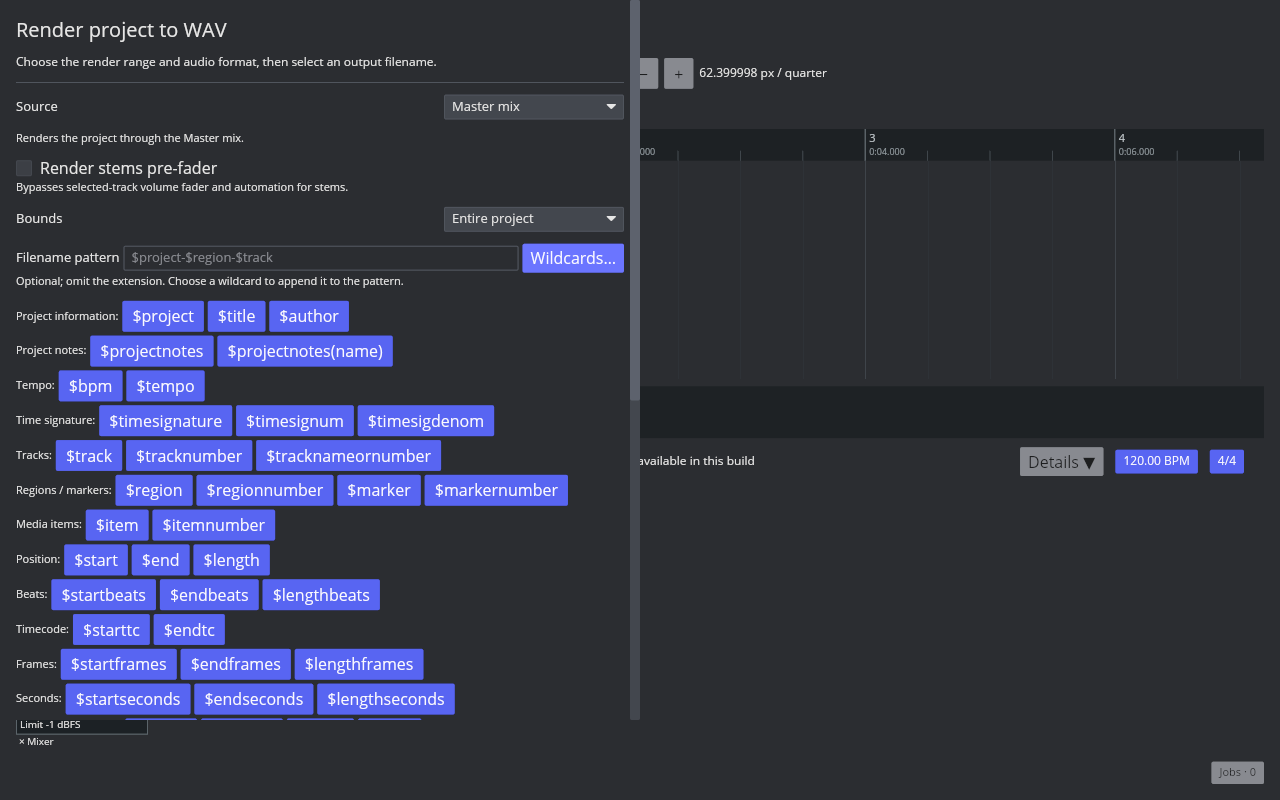
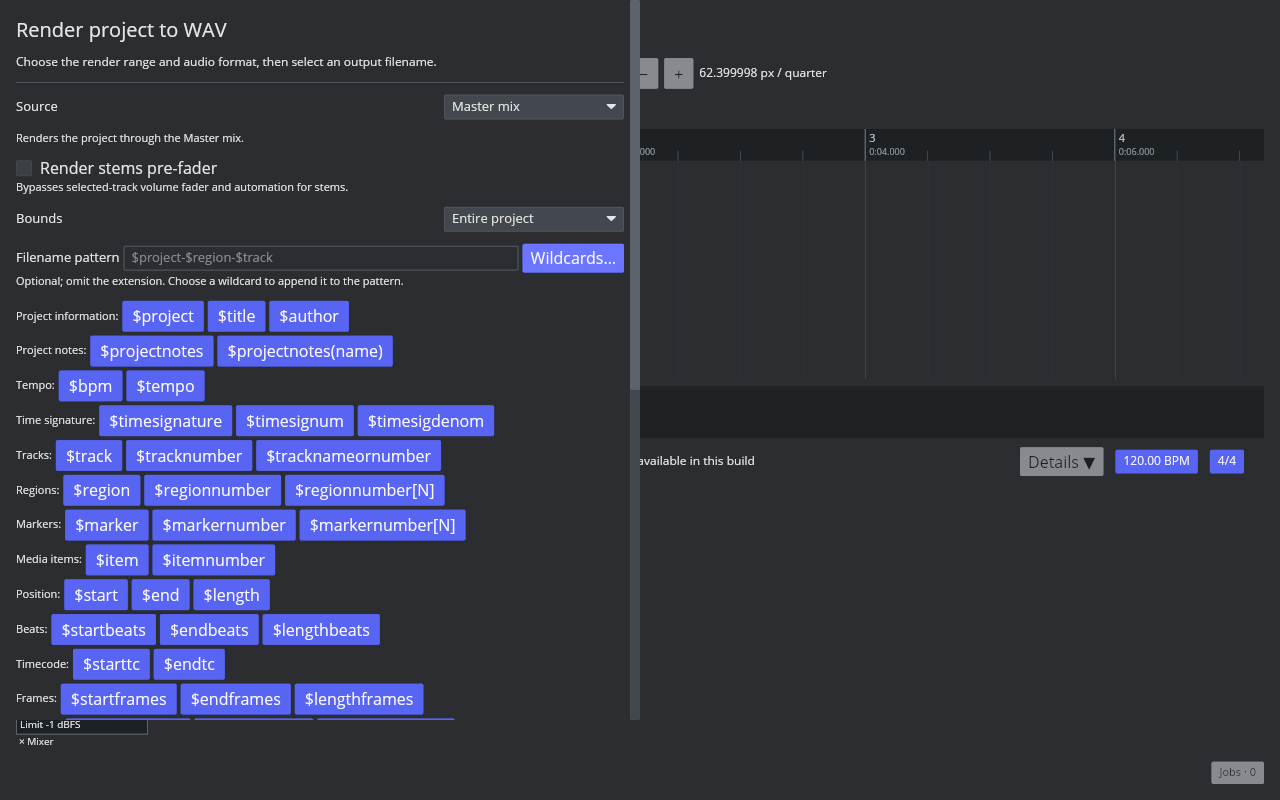
feat(render): support numbered region and marker wildcards

Changed region(s): [[0.0, 0.5938, 0.4688, 0.9062]]

diff --git a/crates/aaadaw/src/app/audio_export.rs b/crates/aaadaw/src/app/audio_export.rs
@@ -54,8 +54,10 @@ pub(crate) enum RenderFilenameWildcard {
     TimeSigDenom,
     Region,
     RegionNumber,
+    RegionNumberNumbered,
     Marker,
     MarkerNumber,
+    MarkerNumberNumbered,
     Track,
     TrackNumber,
     TrackNameOrNumber,
@@ -88,7 +90,7 @@ pub(crate) enum RenderFilenameWildcard {
 }
 
 impl RenderFilenameWildcard {
-    pub(crate) const ALL: [Self; 42] = [
+    pub(crate) const ALL: [Self; 44] = [
         Self::Project,
         Self::Title,
         Self::Author,
@@ -104,8 +106,10 @@ impl RenderFilenameWildcard {
         Self::TrackNameOrNumber,
         Self::Region,
         Self::RegionNumber,
+        Self::RegionNumberNumbered,
         Self::Marker,
         Self::MarkerNumber,
+        Self::MarkerNumberNumbered,
         Self::Item,
         Self::ItemNumber,
         Self::Start,
@@ -146,8 +150,10 @@ impl RenderFilenameWildcard {
             Self::TimeSigDenom => "$timesigdenom",
             Self::Region => "$region",
             Self::RegionNumber => "$regionnumber",
+            Self::RegionNumberNumbered => "$regionnumber[N]",
             Self::Marker => "$marker",
             Self::MarkerNumber => "$markernumber",
+            Self::MarkerNumberNumbered => "$markernumber[N]",
             Self::Track => "$track",
             Self::TrackNumber => "$tracknumber",
             Self::TrackNameOrNumber => "$tracknameornumber",
@@ -901,11 +907,16 @@ enum RenderFilenameWildcardModifier {
     },
     RemoveCharacter(char),
     Truncate(usize),
+    Numbered {
+        start: u64,
+        width: usize,
+    },
 }
 
 fn parse_render_filename_wildcard_modifiers(
     characters: &[char],
     start: usize,
+    token: &str,
 ) -> (usize, Vec<RenderFilenameWildcardModifier>) {
     let mut index = start;
     let mut modifiers = Vec::new();
@@ -942,17 +953,26 @@ fn parse_render_filename_wildcard_modifiers(
                 };
                 let end = index + 1 + relative_end;
                 let suffix = &characters[index + 1..end];
-                let Some(digits) = suffix.strip_prefix(&['<']) else {
-                    // [N] is a render-order counter whose scope depends on the
-                    // selected source. Leave it literal until that context is
-                    // modeled rather than treating it as string padding.
+                if let Some(digits) = suffix.strip_prefix(&['<']) {
+                    let digits = digits.iter().collect::<String>();
+                    let Ok(limit) = digits.parse::<usize>() else {
+                        break;
+                    };
+                    modifiers.push(RenderFilenameWildcardModifier::Truncate(limit));
+                } else if matches!(token, "regionnumber" | "markernumber")
+                    && suffix.iter().all(char::is_ascii_digit)
+                {
+                    let width = suffix.len();
+                    let digits = suffix.iter().collect::<String>();
+                    let Ok(start) = digits.parse::<u64>() else {
+                        break;
+                    };
+                    modifiers.push(RenderFilenameWildcardModifier::Numbered { start, width });
+                } else {
+                    // Other [N] forms use render-order contexts which are not
+                    // modeled by the current single-source filename resolver.
                     break;
-                };
-                let digits = digits.iter().collect::<String>();
-                let Ok(limit) = digits.parse::<usize>() else {
-                    break;
-                };
-                modifiers.push(RenderFilenameWildcardModifier::Truncate(limit));
+                }
                 index = end + 1;
             }
             _ => break,
@@ -1013,6 +1033,11 @@ fn apply_render_filename_wildcard_modifiers(
                 value.chars().filter(|value| *value != *character).collect()
             }
             RenderFilenameWildcardModifier::Truncate(limit) => value.chars().take(*limit).collect(),
+            RenderFilenameWildcardModifier::Numbered { start, width } => value
+                .parse::<u64>()
+                .map(|number| start.saturating_add(number.saturating_sub(1)))
+                .map(|number| format!("{number:0width$}"))
+                .unwrap_or(value),
         };
     }
     value
@@ -1198,7 +1223,7 @@ fn expand_render_filename_pattern(
                 (token_end, None)
             };
         let (wildcard_end, modifiers) = if known_token {
-            parse_render_filename_wildcard_modifiers(&characters, expression_end)
+            parse_render_filename_wildcard_modifiers(&characters, expression_end, &token)
         } else {
             (expression_end, Vec::new())
         };
@@ -3025,8 +3050,10 @@ mod tests {
                 "$tracknameornumber",
                 "$region",
                 "$regionnumber",
+                "$regionnumber[N]",
                 "$marker",
                 "$markernumber",
+                "$markernumber[N]",
                 "$item",
                 "$itemnumber",
                 "$start",
@@ -3080,6 +3107,61 @@ mod tests {
             app.render_dialog.filename_pattern,
             "$project-$track$project$projectnotes(name)"
         );
+    }
+
+    #[test]
+    fn render_filename_region_and_marker_numbers_match_native_start_number_rules() {
+        let mut project = Project::default();
+        for (start_ticks, end_ticks, name) in [(0, 1_920, "First"), (1_920, 3_840, "Second")] {
+            project
+                .apply(DawAction::InsertProjectRegion {
+                    start_ticks,
+                    end_ticks,
+                    name: name.to_owned(),
+                })
+                .expect("numbered region should be inserted");
+        }
+        for (position_ticks, name) in [(0, "First"), (1_920, "Second"), (3_840, "End")] {
+            project
+                .apply(DawAction::InsertProjectMarker {
+                    position_ticks,
+                    name: name.to_owned(),
+                })
+                .expect("numbered marker should be inserted");
+        }
+        let settings = aaadaw_app::ProjectWavRenderSettings {
+            master_ceiling: aaadaw_engine::MasterOutputCeiling::default(),
+            export_options: aaadaw_app::WavExportOptions::default(),
+            output_sample_rate: 48_000,
+            output_channels: WavChannelCount::Stereo,
+            source: aaadaw_app::ProjectWavRenderSource::MasterMix,
+            start_sample: project
+                .sample_at_tick(1_920)
+                .expect("start tick should convert"),
+            end_sample: project
+                .sample_at_tick(3_840)
+                .expect("end tick should convert"),
+            tail_milliseconds: 0,
+            normalize_peak: false,
+            normalize_peak_target_centi_dbfs: 0,
+        };
+        let output = apply_render_filename_pattern(
+            vec![(settings, Path::new("/renders/base.wav").to_owned())],
+            "$regionnumber[001]-$markernumber[005]",
+            &project,
+            Path::new("/projects/numbered.aaadaw"),
+        )
+        .expect("region and marker start-number modifiers should expand");
+        assert_eq!(output[0].1, Path::new("/renders/002-006.wav"));
+
+        let output = apply_render_filename_pattern(
+            vec![(settings, Path::new("/renders/base.wav").to_owned())],
+            "$regionnumber[01]-$markernumber[01]",
+            &project,
+            Path::new("/projects/numbered.aaadaw"),
+        )
+        .expect("two-digit number modifiers should retain their requested width");
+        assert_eq!(output[0].1, Path::new("/renders/02-02.wav"));
     }
 
     #[test]

diff --git a/crates/aaadaw/src/app/view/render.rs b/crates/aaadaw/src/app/view/render.rs
@@ -224,44 +224,48 @@ pub(super) fn view(app: &App) -> Element<'_, Message> {
                     RenderFilenameWildcard::ALL.into_iter().skip(10).take(3),
                 ),
                 wildcard_group_row(
-                    "Regions / markers:",
-                    RenderFilenameWildcard::ALL.into_iter().skip(13).take(4),
+                    "Regions:",
+                    RenderFilenameWildcard::ALL.into_iter().skip(13).take(3),
+                ),
+                wildcard_group_row(
+                    "Markers:",
+                    RenderFilenameWildcard::ALL.into_iter().skip(16).take(3),
                 ),
                 wildcard_group_row(
                     "Media items:",
-                    RenderFilenameWildcard::ALL.into_iter().skip(17).take(2),
+                    RenderFilenameWildcard::ALL.into_iter().skip(19).take(2),
                 ),
                 wildcard_group_row(
                     "Position:",
-                    RenderFilenameWildcard::ALL.into_iter().skip(19).take(3),
+                    RenderFilenameWildcard::ALL.into_iter().skip(21).take(3),
                 ),
                 wildcard_group_row(
                     "Beats:",
-                    RenderFilenameWildcard::ALL.into_iter().skip(22).take(3),
+                    RenderFilenameWildcard::ALL.into_iter().skip(24).take(3),
                 ),
                 wildcard_group_row(
                     "Timecode:",
-                    RenderFilenameWildcard::ALL.into_iter().skip(25).take(2),
+                    RenderFilenameWildcard::ALL.into_iter().skip(27).take(2),
                 ),
                 wildcard_group_row(
                     "Frames:",
-                    RenderFilenameWildcard::ALL.into_iter().skip(27).take(3),
+                    RenderFilenameWildcard::ALL.into_iter().skip(29).take(3),
                 ),
                 wildcard_group_row(
                     "Seconds:",
-                    RenderFilenameWildcard::ALL.into_iter().skip(30).take(3),
+                    RenderFilenameWildcard::ALL.into_iter().skip(32).take(3),
                 ),
                 wildcard_group_row(
                     "Length components:",
-                    RenderFilenameWildcard::ALL.into_iter().skip(33).take(4),
+                    RenderFilenameWildcard::ALL.into_iter().skip(35).take(4),
                 ),
                 wildcard_group_row(
                     "Output format:",
-                    RenderFilenameWildcard::ALL.into_iter().skip(37).take(4),
+                    RenderFilenameWildcard::ALL.into_iter().skip(39).take(4),
                 ),
                 wildcard_group_row(
                     "Channels:",
-                    RenderFilenameWildcard::ALL.into_iter().skip(41).take(1),
+                    RenderFilenameWildcard::ALL.into_iter().skip(43).take(1),
                 ),
             ]
             .spacing(tokens::SPACING_XS)

diff --git a/docs/verification/reaper-parity/render-filename-patterns.md b/docs/verification/reaper-parity/render-filename-patterns.md
@@ -2,12 +2,12 @@
 
 Linux REAPER 7.82 / Default 7 places a `File name` pattern field and `Wildcards` button in the Render window. The captured selected-item case uses `$region-$item` and resolves to `bounds-ui-Region 2-item_02.wav`; the reference dialog and measured output are archived in [the native screenshot](images/render-selected-items-native.png) and [the output record](render-selected-items-native.tsv). The native Region Render Matrix fixture uses `$region-$track` and emits `Intro-Master.wav`, `Intro-Drums.wav`, `Intro-Guitar.wav`, and `Verse-Bass.wav`.
 
-AAADAW now provides an optional filename-pattern field in its Render window and a grouped `Wildcards…` picker immediately below it. Its 42 implemented tokens cover `$project`, `$title`, `$author`, `$projectnotes`, `$projectnotes(name)`, `$bpm`, `$tempo`, `$timesignature`, `$timesignum`, `$timesigdenom`, `$track`, `$tracknumber`, `$tracknameornumber`, `$region`, `$regionnumber`, `$marker`, `$markernumber`, `$item`, `$itemnumber`, the 18 Position/Length tokens `$start`, `$end`, `$length`, `$startbeats`, `$endbeats`, `$lengthbeats`, `$starttc`, `$endtc`, `$startframes`, `$endframes`, `$lengthframes`, `$startseconds`, `$endseconds`, `$lengthseconds`, `$lenhh`, `$lenmm`, `$lenss`, and `$lentt`, plus `$format`, `$samplerate`, `$sampleratek`, `$bitdepth`, and `$channels`. Project metadata values come from the existing Project Notes model; `$projectnotes(name)` reads the value of an exact `name=value` line, following the native help example. Selecting a token appends it to the end of the pattern and closes the picker. A chosen output path supplies the directory and extension; a blank pattern retains the existing generated names. The resolver sanitizes characters unsafe in file names and rejects patterns that resolve multiple jobs to the same name before queueing. The Render job still publishes through the existing atomic batch writer.
+AAADAW now provides an optional filename-pattern field in its Render window and a grouped `Wildcards…` picker immediately below it. Its 44 implemented tokens cover `$project`, `$title`, `$author`, `$projectnotes`, `$projectnotes(name)`, `$bpm`, `$tempo`, `$timesignature`, `$timesignum`, `$timesigdenom`, `$track`, `$tracknumber`, `$tracknameornumber`, `$region`, `$regionnumber`, `$regionnumber[N]`, `$marker`, `$markernumber`, `$markernumber[N]`, `$item`, `$itemnumber`, the 18 Position/Length tokens `$start`, `$end`, `$length`, `$startbeats`, `$endbeats`, `$lengthbeats`, `$starttc`, `$endtc`, `$startframes`, `$endframes`, `$lengthframes`, `$startseconds`, `$endseconds`, `$lengthseconds`, `$lenhh`, `$lenmm`, `$lenss`, and `$lentt`, plus `$format`, `$samplerate`, `$sampleratek`, `$bitdepth`, and `$channels`. Project metadata values come from the existing Project Notes model; `$projectnotes(name)` reads the value of an exact `name=value` line, following the native help example. For `$regionnumber[N]` and `$markernumber[N]`, the numeric suffix sets the first output number and later object ordinals increment it while preserving digit width. Selecting a token appends it to the end of the pattern and closes the picker. A chosen output path supplies the directory and extension; a blank pattern retains the existing generated names. The resolver sanitizes characters unsafe in file names and rejects patterns that resolve multiple jobs to the same name before queueing. The Render job still publishes through the existing atomic batch writer.
 
-The [AAADAW filename-field capture](fixtures/render-filename-pattern-aaadaw.png), [expanded picker capture](fixtures/render-filename-pattern-wildcards-aaadaw.png), [scrolled picker capture](fixtures/render-filename-pattern-wildcards-scrolled-aaadaw.png), [project-note insertion capture](fixtures/render-filename-pattern-wildcard-insert-aaadaw.png), [item-number insertion capture](fixtures/render-filename-pattern-wildcard-itemnumber-aaadaw.png), and [sample-rate insertion capture](fixtures/render-filename-pattern-wildcard-sampleratek-aaadaw.png) were taken from the rebuilt desktop binary. The reproducible [capture script](../../../scripts/reaper_parity/capture-render-filename-pattern-aaadaw.sh) drives the visible Render command with Ctrl+Alt+R; set `AAADAW_OPEN_WILDCARDS=1` to capture the expanded picker, or `AAADAW_INSERT_WILDCARD=projectnotesnamed`, `itemnumber`, or `sampleratek` to click those tokens and capture the resulting field. The current desktop captures confirm that `$projectnotes(name)`, `$itemnumber`, and `$sampleratek` insert and close the picker. Native UI probes accept `AAADAW_REAPER_WILDCARD_PATTERN` to replace their default pattern. The selected-item probe also accepts project title, author, notes, track name, item start, and item length overrides. Native captures verify `$tracknumber-$tracknameornumber-$regionnumber-$tempo-$timesignature-$timesignum-$timesigdenom` as `01-Render fixture-02-120-4-4-4-4.wav`, `$markernumber` as `01.wav`, `$title-$author-$projectnotes` as `Wildcard Session-Render Author-Mix notes.wav`, and an empty track name with `$tracknameornumber` as `Track 01.wav`. At 30 fps and 4/4, a selected item from 2.125 to 3.359 seconds resolves `$start-$end-$length` to `0-02.125-0-03.359-0-01.234`, `$startbeats-$endbeats-$lengthbeats` to `2.1.25-2.3.72-0.2.47`, `$starttc-$endtc` to `00.00.02.03-00.00.03.10`, `$startseconds-$endseconds-$lengthseconds-$startframes-$endframes-$lengthframes` to `2.125-3.359-1.234-63-100-37`, and the length components to `0-0-1-234`. The [native context capture](fixtures/render-wildcards-context-native.png), [marker capture](fixtures/render-wildcards-marker-native.png), [metadata capture](fixtures/render-wildcards-metadata-native.png), [unnamed-track capture](fixtures/render-wildcards-unnamed-track-native.png), and the [clock](fixtures/render-wildcards-clock-native.png), [beats](fixtures/render-wildcards-beats-native.png), [timecode](fixtures/render-wildcards-timecode-native.png), [frames](fixtures/render-wildcards-frames-native.png), and [length components](fixtures/render-wildcards-length-native.png) captures preserve those cases. Screenshot hashes, native inputs, implementation tokens, and regression results are in the [fixture manifest](fixtures/render-filename-pattern-aaadaw.tsv).
+The [AAADAW filename-field capture](fixtures/render-filename-pattern-aaadaw.png), [expanded picker capture](fixtures/render-filename-pattern-wildcards-aaadaw.png), [scrolled picker capture](fixtures/render-filename-pattern-wildcards-scrolled-aaadaw.png), [project-note insertion capture](fixtures/render-filename-pattern-wildcard-insert-aaadaw.png), [item-number insertion capture](fixtures/render-filename-pattern-wildcard-itemnumber-aaadaw.png), [sample-rate insertion capture](fixtures/render-filename-pattern-wildcard-sampleratek-aaadaw.png), and [numbered-region insertion capture](fixtures/render-filename-pattern-wildcard-region-number-aaadaw.png) were taken from the rebuilt desktop binary. The reproducible [capture script](../../../scripts/reaper_parity/capture-render-filename-pattern-aaadaw.sh) drives the visible Render command with Ctrl+Alt+R; set `AAADAW_OPEN_WILDCARDS=1` to capture the expanded picker, or `AAADAW_INSERT_WILDCARD=projectnotesnamed`, `itemnumber`, `sampleratek`, or `regionnumberpadded` to click those tokens and capture the resulting field. The current desktop captures confirm that `$projectnotes(name)`, `$itemnumber`, `$sampleratek`, and the `$regionnumber[N]` template insert and close the picker. Native UI probes accept `AAADAW_REAPER_WILDCARD_PATTERN` to replace their default pattern. The selected-item probe also accepts project title, author, notes, track name, item start, and item length overrides. Native captures verify `$tracknumber-$tracknameornumber-$regionnumber-$tempo-$timesignature-$timesignum-$timesigdenom` as `01-Render fixture-02-120-4-4-4-4.wav`, `$markernumber` as `01.wav`, `$title-$author-$projectnotes` as `Wildcard Session-Render Author-Mix notes.wav`, and an empty track name with `$tracknameornumber` as `Track 01.wav`. A direct native probe selected `All project markers` with `$markernumber[005]` and rendered three files named `marker-005.wav`, `marker-006.wav`, and `marker-007.wav`; the native dialog and finished output list are preserved in the [numbered-marker fixture](fixtures/render-wildcards-markernumber-all-markers.tsv). The native wildcard help explicitly defines `$regionnumber[N]` such that the first region ID uses N and the second N+1. At 30 fps and 4/4, a selected item from 2.125 to 3.359 seconds resolves `$start-$end-$length` to `0-02.125-0-03.359-0-01.234`, `$startbeats-$endbeats-$lengthbeats` to `2.1.25-2.3.72-0.2.47`, `$starttc-$endtc` to `00.00.02.03-00.00.03.10`, `$startseconds-$endseconds-$lengthseconds-$startframes-$endframes-$lengthframes` to `2.125-3.359-1.234-63-100-37`, and the length components to `0-0-1-234`. The [native context capture](fixtures/render-wildcards-context-native.png), [marker capture](fixtures/render-wildcards-marker-native.png), [metadata capture](fixtures/render-wildcards-metadata-native.png), [unnamed-track capture](fixtures/render-wildcards-unnamed-track-native.png), and the [clock](fixtures/render-wildcards-clock-native.png), [beats](fixtures/render-wildcards-beats-native.png), [timecode](fixtures/render-wildcards-timecode-native.png), [frames](fixtures/render-wildcards-frames-native.png), and [length components](fixtures/render-wildcards-length-native.png) captures preserve those cases. Screenshot hashes, native inputs, implementation tokens, and regression results are in the [fixture manifest](fixtures/render-filename-pattern-aaadaw.tsv).
 
 Wildcard text expansion now follows the native help for capitalization (`$Track`, `$TRACK`, `$tRACK`), `<X>` removal, `<abcdeX>` replacement, and `[<N]` prefix truncation. When a known wildcard expands to an empty string, one adjacent space, hyphen, underscore, or dot is omitted, following the native help rule. Unit regressions cover those transformations; native help captures are linked in the [catalog](render-wildcard-catalog.md).
 
-The regression resolves the native `$region-$track` matrix pattern to the same four native target names, renders those jobs through AAADAW's offline audio renderer, and compares every PCM24 sample to the matching REAPER output. A second test resolves `$region-$item` to the observed `Intro-item_01.wav` form. The context-expansion regression checks Project Notes title/author/text, all Position/Length values, and track, region, tempo, and time-signature values; `$itemnumber` follows the selected item’s project order and is regression-tested with the captured `$item` `item_02` identity; an unnamed track resolves `$tracknameornumber` to the native `Track 02` form. The native unnamed-track render preview shows `Track 01.wav`. Separate cases cover safe-name conversion, blank-pattern fallback, unknown literal tokens, and duplicate-name rejection. The queue test sets `$project-$track` through the Render message and checks that queued stem paths use the expanded project and track names; it also verifies duplicate names leave the queue unchanged. The picker regression covers all 42 visible tokens, appending the selected token, and closing the menu. The named Project Notes regression resolves `first=john` and `last=doe` to `john-doe`, as shown in the native help, and an absent key resolves empty. The output-context regression checks native values for WAV format, 44.1/22.05 kHz formatting, 16/24/32/64-bit PCM/float and 4/2-bit compressed WAV values, and Mono/Stereo channel counts. See the manifest for current build, screenshot hashes, and validation counts.
+The regression resolves the native `$region-$track` matrix pattern to the same four native target names, renders those jobs through AAADAW's offline audio renderer, and compares every PCM24 sample to the matching REAPER output. A second test resolves `$region-$item` to the observed `Intro-item_01.wav` form. The context-expansion regression checks Project Notes title/author/text, all Position/Length values, and track, region, tempo, and time-signature values; `$itemnumber` follows the selected item’s project order and is regression-tested with the captured `$item` `item_02` identity; numbered region and marker outputs apply the requested initial value and width to the second region/marker, with the marker pattern independently confirmed by native renders `marker-005.wav` through `marker-007.wav`. An unnamed track resolves `$tracknameornumber` to the native `Track 02` form. The native unnamed-track render preview shows `Track 01.wav`. Separate cases cover safe-name conversion, blank-pattern fallback, unknown literal tokens, and duplicate-name rejection. The queue test sets `$project-$track` through the Render message and checks that queued stem paths use the expanded project and track names; it also verifies duplicate names leave the queue unchanged. The picker regression covers all 44 visible tokens, appending the selected token, and closing the menu. The named Project Notes regression resolves `first=john` and `last=doe` to `john-doe`, as shown in the native help, and an absent key resolves empty. The output-context regression checks native values for WAV format, 44.1/22.05 kHz formatting, 16/24/32/64-bit PCM/float and 4/2-bit compressed WAV values, and Mono/Stereo channel counts. See the manifest for current build, screenshot hashes, and validation counts.
 
-The [native wildcard catalog](render-wildcard-catalog.md) records the 97 entries visible in REAPER 7.82 menus and the native Wildcard help rules. This does not complete REAPER Wildcards parity: AAADAW exposes 42 tokens in a flat scrollable grouped picker and appends at the pattern end; insertion at the caret or over a selection, region/marker/item/take-marker named-note parsing, project directory variants, region/marker/item note and name expressions, folders/parent/FX, recording names, date/time/unique IDs, computer/user values, REAPER's full ordering and escaping rules, pattern presets and cross-launch persistence, native collision prompts, non-WAV formats, per-channel `$chid`, and remaining source/range combinations are open. Position/Length formatting is verified with the default 4/4 meter and 30 fps, while project time offset, meter changes across the render range, other frame rates, drop-frame modes, and Tail interactions still need native comparisons. The native context captures verify track number/name, region number, tempo, time signature components, marker number, project title/author/notes, and the sampled time/beat/frame output forms. `$marker` text/name expansion and many source-dependent values still need native comparisons. `RENDER-WILDCARDS-001`, `RENDER-SOURCE-001`, and `UI-028` remain `in_progress`.
+The [native wildcard catalog](render-wildcard-catalog.md) records the 97 entries visible in REAPER 7.82 menus and the native Wildcard help rules. This does not complete REAPER Wildcards parity: AAADAW exposes 44 tokens in a flat scrollable grouped picker and appends at the pattern end; insertion at the caret or over a selection, region/marker/item/take-marker named-note parsing, project directory variants, region/marker/item note and name expressions, folders/parent/FX, recording names, date/time/unique IDs, computer/user values, other `[N]` render-order counters, REAPER's full ordering and escaping rules, pattern presets and cross-launch persistence, native collision prompts, non-WAV formats, per-channel `$chid`, and remaining source/range combinations are open. Position/Length formatting is verified with the default 4/4 meter and 30 fps, while project time offset, meter changes across the render range, other frame rates, drop-frame modes, and Tail interactions still need native comparisons. The native context captures verify track number/name, region number, tempo, time signature components, marker number, project title/author/notes, and the sampled time/beat/frame output forms. `$marker` text/name expansion and many source-dependent values still need native comparisons. `RENDER-WILDCARDS-001`, `RENDER-SOURCE-001`, and `UI-028` remain `in_progress`.

diff --git a/docs/reaper-parity/progress.md b/docs/reaper-parity/progress.md
@@ -20,13 +20,13 @@
 | P1 | 进行中 | [快捷键基础能力](../verification/reaper-parity/keyboard-foundation.md)；Action List Filter 与轨道名焦点的首批原厂键盘行为已核验并纳入回归；Section、完整 Action List、数字键盘/物理键和事务仍待推进 |
 | P2 | 进行中 | Desktop/Touch profile 已分离；Arrange/Mixer/Media Browser 同时显示、独立分割比例及布局持久化；浮动 Docker 等仍待开发 |
 | P3 | 进行中 | 普通轨道输出目标、接收路径 Solo、默认 0 dB 声像与旧工程策略迁移；并行 Post-fader Send/Receive 基础已实现；三种 Tap、嵌套文件夹/Parent Send 与压缩基础已实现；通道/MIDI 等仍待开发 |
-| P4 | 进行中 | Item 手动淡化曲线及工程/DSP 基础；Item Nudge/Set 已覆盖多目标、Duplicate 与 Audio/MIDI Contents；schema 50 signed section-relative audio source offset 已跨 Core/Storage/Media/UI 接入，schema 51 MIDI source loop length 与重复事件已接入 Core/Storage/playback/timeline preview/export；looped MIDI Contents Nudge 与 Snap 开/关、non-loop MIDI Contents Nudge 的 PPQ clamp/source offset remainder/notes/CC/pitch bend 与单步 Undo/Redo、mixed Audio/MIDI selection、stepped-tempo 起点及一个 linear-tempo ramp 案例已有 REAPER 7.82 对照和回归；Linear TempoCurve 已改为按项目时间插值，linear-ramp Set/Contents 与 non-loop edge MIDI event positions/source lengths 现匹配原厂整数 PPQ 值，sub-PPQ source-loop/offset remainder 仍开放；AAADAW MIDI Properties 的 PPQ source-loop length 编辑已接入但原厂控件与缩短规则仍未验证、旧 trimmed source 长度恢复、looped MIDI 的绝对 Set→Contents（Snap off 与整秒 Snap-on）、Audio Set、mixed Audio/looped-MIDI Set 和 non-loop MIDI Set 已按原厂值实现；其他 Target 与更广的 Undo 仍待补；MIDI Item Properties 的 Loop source 开关已实现、实窗对照且可撤销，关闭时保留 MIDI source loop length；MIDI Editor 钢琴卷帘/CC/Pitch Bend 循环实例显示、命中与源事件编辑已有回归和原厂/AAADAW实窗截图；Project Marker 插入/导航/删除/编号动作/可见性/标尺选择拖动/属性窗/基础 Manager，以及 Project Region 数据、可见性、时间选择插入、Manager 属性、基础时间尺显示和 Region Render Matrix 的逐区域 Master/轨道分配（schema 53、撤销/重做）已接入；一组确定性原厂矩阵音频输出已与 AAADAW 全 PCM 样本对齐，filename pattern 仍待实现；LoopPoints 独立状态/链接动作、Action List on/off 状态、40632/40633 Loop 边界导航、Ruler 手势、项目级范围与全局 link 偏好保存恢复已接入；播放中 play cursor、Repeat、Region 原厂交互、tempo/timebase、GUI 边界与自动 Crossfade 待推进 |
+| P4 | 进行中 | Item 手动淡化曲线及工程/DSP 基础；Item Nudge/Set 已覆盖多目标、Duplicate 与 Audio/MIDI Contents；schema 50 signed section-relative audio source offset 已跨 Core/Storage/Media/UI 接入，schema 51 MIDI source loop length 与重复事件已接入 Core/Storage/playback/timeline preview/export；looped MIDI Contents Nudge 与 Snap 开/关、non-loop MIDI Contents Nudge 的 PPQ clamp/source offset remainder/notes/CC/pitch bend 与单步 Undo/Redo、mixed Audio/MIDI selection、stepped-tempo 起点及一个 linear-tempo ramp 案例已有 REAPER 7.82 对照和回归；Linear TempoCurve 已改为按项目时间插值，linear-ramp Set/Contents 与 non-loop edge MIDI event positions/source lengths 现匹配原厂整数 PPQ 值，sub-PPQ source-loop/offset remainder 仍开放；AAADAW MIDI Properties 的 PPQ source-loop length 编辑已接入但原厂控件与缩短规则仍未验证、旧 trimmed source 长度恢复、looped MIDI 的绝对 Set→Contents（Snap off 与整秒 Snap-on）、Audio Set、mixed Audio/looped-MIDI Set 和 non-loop MIDI Set 已按原厂值实现；其他 Target 与更广的 Undo 仍待补；MIDI Item Properties 的 Loop source 开关已实现、实窗对照且可撤销，关闭时保留 MIDI source loop length；MIDI Editor 钢琴卷帘/CC/Pitch Bend 循环实例显示、命中与源事件编辑已有回归和原厂/AAADAW实窗截图；Project Marker 插入/导航/删除/编号动作/可见性/标尺选择拖动/属性窗/基础 Manager，以及 Project Region 数据、可见性、时间选择插入、Manager 属性、基础时间尺显示和 Region Render Matrix 的逐区域 Master/轨道分配（schema 53、撤销/重做）已接入；一组确定性原厂矩阵音频输出已与 AAADAW 全 PCM 样本对齐，基础 filename-pattern 字段、wildcard expansion/picker 和单轨/区域范围输出已实现，完整命名语法与编辑交互仍待覆盖；LoopPoints 独立状态/链接动作、Action List on/off 状态、40632/40633 Loop 边界导航、Ruler 手势、项目级范围与全局 link 偏好保存恢复已接入；播放中 play cursor、Repeat、Region 原厂交互、tempo/timebase、GUI 边界与自动 Crossfade 待推进 |
 | P5 | 未开始 | 高级编辑与 Take/Comp |
 | P6 | 进行中 | 工厂 Play/Stop 与 Play/Pause 已分离；Transport 分段规划已接入 `AudioRenderGraph` callback，in-process MIDI instrument/output 可在 loop 回绕处先释放 sustain/跨界音符再 chase 新起点状态，且 callback 分配探针覆盖该路径；Repeat 按钮/Action R 与 MIDI/受限 PCM feeder 已接入，原厂确认从 Loop 后起播线性前进且 AAADAW 音频回归覆盖；Loop 可达时不匹配的 PCM item 与 isolated instrument helper 仍在消费前拒绝，完整原厂音频等价、Repeat 持久化、完整 Transport 状态及录音/设备行为仍待实现/实测 |
 | P7 | 未开始 | MIDI |
 | P8 | 未开始 | 自动化 |
 | P9 | 未开始 | 插件 |
-| P10 | 进行中 | 工程帧率/时间码、Notes 与 General 起始速度/拍号/采样率/有符号 Start measure/BPM basis/标尺间隔锚点/Project start time 显示偏移/已实现字段的默认工程设置保存；媒体默认已有 64pt playback/192pt render sinc，Render 支持 Entire project/Time selection/Custom time range/All project regions/All project markers、默认关闭且整数毫秒输入的 Tail、Project/常用预设输出采样率转换、Mono/Stereo WAV、PCM8/16/24/32、Float32/64、4-bit IMA ADPCM、2-bit cADPCM 与 8-bit u-Law、可调 sample-peak、Selected tracks (stems)/pre-fader/via master、Master mix and stems，以及 Region Render Matrix 的 All/Selected Regions 批量任务构造、一组 4 文件原厂 PCM24 对照和 42 个常用 Wildcard token（其中 18 个 Position/Length 项及 5 个输出格式/通道值与 REAPER 7.82 实窗输出比对；原厂大小写、字符替换/删除、[<N] 截取和空值分隔符与 named project-note 规则已接入）；$region-$track 原厂文件名与完整 PCM 已一致，完整 Wildcards chooser/规则/跨启动保存及其他路由行为仍待验收；cADPCM 编码尚未逐字节一致、Selected regions/markers、其他 Bounds、多声道、其他归一化/限制后处理和完整原厂对照仍缺 |
+| P10 | 进行中 | 工程帧率/时间码、Notes 与 General 起始速度/拍号/采样率/有符号 Start measure/BPM basis/标尺间隔锚点/Project start time 显示偏移/已实现字段的默认工程设置保存；媒体默认已有 64pt playback/192pt render sinc，Render 支持 Entire project/Time selection/Custom time range/All project regions/All project markers、默认关闭且整数毫秒输入的 Tail、Project/常用预设输出采样率转换、Mono/Stereo WAV、PCM8/16/24/32、Float32/64、4-bit IMA ADPCM、2-bit cADPCM 与 8-bit u-Law、可调 sample-peak、Selected tracks (stems)/pre-fader/via master、Master mix and stems，以及 Region Render Matrix 的 All/Selected Regions 批量任务构造、一组 4 文件原厂 PCM24 对照和 44 个 Wildcard token（其中 18 个 Position/Length 项及 5 个输出格式/通道值与 REAPER 7.82 实窗输出比对；原厂大小写、字符替换/删除、[<N] 截取、空值分隔符、named project-note 与 numbered region/marker 规则已接入）；$region-$track 原厂文件名与完整 PCM 已一致，完整 Wildcards chooser/语法/编辑交互、跨启动保存及其他路由行为仍待验收；cADPCM 编码尚未逐字节一致、Selected regions/markers、其他 Bounds、多声道、其他归一化/限制后处理和完整原厂对照仍缺 |
 | P11 | 未开始 | 其他原厂界面 |
 | P12 | 未开始 | 全量验收 |
 
@@ -1599,3 +1599,9 @@ App nextest 664/664、strict all-target App Clippy `-D warnings`、stripped-debu
 ## 2026-10-16 Named project-note wildcard
 
 实现原厂 Media/Project Information 菜单中的 `$projectnotes(name)`，按原厂 help 的 `name=value` 行精确取值；缺失名称为空，并复用空值相邻分隔符清理。使用原厂帮助页示例 `first=john`、`last=doe` 新增回归，模式 `$projectnotes(first)-$projectnotes(last)-$projectnotes(missing)` 得到 `john-doe`。picker 将 Project notes 拆为普通备注与 named-value 两个按钮，插入坐标脚本同步更新。Picker 扩展到 42 项；App nextest 669/669 与 strict all-target App Clippy `-D warnings` 通过。Build ID `32409702f28800989b39000cedcd7387752a9249` 的 Render、picker、滚动 picker、named-note、itemnumber 和 sampleratek 实点截图已登记；区域/标记/Item/Take marker 命名值及其余原厂 wildcard 仍开放。
+
+### 2026-10-16 Numbered region and marker wildcards
+
+Render Wildcards picker 新增 `$regionnumber[N]` 与 `$markernumber[N]`，总数达到 44。`N` 指定第一个输出编号，后续 Region/Marker 按序递增并保留位宽；第二个对象分别用 `[001]` 得到 `002`、用 `[01]` 得到 `02`。原厂 Wildcard help 第 3 页明确记录 Region 规则，原厂 Regions/Markers 菜单列出两种编号形式；Linux REAPER 7.82 的 All project markers 实际渲染验证 `$markernumber[005]` 生成 `marker-005.wav`、`marker-006.wav`、`marker-007.wav`，对话框与完成列表见[原厂编号 Marker fixture](../verification/reaper-parity/fixtures/render-wildcards-markernumber-all-markers.tsv)。分开 Region 和 Marker picker 行，避免四个控件横向溢出；新的全量/滚动 picker 与 `$regionnumber[N]` 实点插入截图均来自当前桌面构建。
+
[1 lines of base64/hex data omitted]

diff --git a/docs/verification/reaper-parity/render-source.md b/docs/verification/reaper-parity/render-source.md
@@ -20,7 +20,7 @@ AAADAW stores a Master-mix boolean and ordered TrackId list per project region i
 
 The Render Source menu now offers `Region Render Matrix` with All/Selected Project Regions bounds. The existing atomic batch-render queue builds one output for each assigned Master row and one for each assigned track row, and stores per-region ranges in each job. The native Linux REAPER 7.82 render action produced four outputs for this fixture: `Intro-Master.wav`, `Intro-Drums.wav`, `Intro-Guitar.wav`, and `Verse-Bass.wav`; unassigned target/region pairs produced no files. All four files were 48 kHz stereo PCM24 with 96,000 frames. The [source generator](../../../scripts/reaper_parity/generate-region-render-matrix-sources.py), [ReaScript render probe](../../../scripts/reaper_parity/probe-region-render-matrix-render.lua), [native output table](fixtures/region-render-matrix-render-native.tsv), and [PCM fixtures](fixtures/region-render-matrix-render/) preserve the setup, metadata, hashes, and payloads. An AAADAW regression renders the same four target jobs and compares every PCM payload byte-for-byte with the corresponding native fixture; output format, frame count, and sample values also match exactly.
 
-The Render window now has an optional filename-pattern field and a grouped `Wildcards…` picker for 42 implemented tokens: `$project`, `$title`, `$author`, `$projectnotes`, `$projectnotes(name)`, `$bpm`, `$tempo`, `$timesignature`, `$timesignum`, `$timesigdenom`, `$track`, `$tracknumber`, `$tracknameornumber`, `$region`, `$regionnumber`, `$marker`, `$markernumber`, `$item`, `$itemnumber`, the 18 Position/Length tokens, and `$format`, `$samplerate`, `$sampleratek`, `$bitdepth`, and `$channels`. The existing Project Notes title, author, and text fields drive the metadata variables; `$projectnotes(name)` resolves matching `name=value` lines, as documented in the native help. A native selected-item Render probe confirms `$title-$author-$projectnotes` resolves to `Wildcard Session-Render Author-Mix notes.wav`; `$tracknumber-$tracknameornumber-$regionnumber-$tempo-$timesignature-$timesignum-$timesigdenom` resolves to `01-Render fixture-02-120-4-4-4-4.wav`, and the marker probe confirms `$markernumber` resolves to `01.wav`. REAPER's changelog specifies that an unnamed track resolves `$tracknameornumber` to `Track NN`; a fresh native dialog shows an empty track name resolving to `Track 01.wav`, which AAADAW now matches. For a selected item from 2.125 to 3.359 seconds, native Render previews verify clock values `0-02.125`, beat values `2.1.25-2.3.72-0.2.47`, timecode `00.00.02.03-00.00.03.10`, seconds and 30 fps counts `2.125-3.359-1.234-63-100-37`, and length components `0-0-1-234`. The native context, metadata, marker, unnamed-track, Position/Length, Output Format, and Channels screenshots are in the filename wildcard fixture set. The native wildcard menu and help catalog is recorded in [the catalog verification](render-wildcard-catalog.md). For the tested `$region-$track` pattern, AAADAW emits the native names `Intro-Master.wav`, `Intro-Drums.wav`, `Intro-Guitar.wav`, and `Verse-Bass.wav`; its offline renderer still matches all four native PCM payloads byte-for-byte. The native `$region-$item` case resolves to `bounds-ui-Region 2-item_02.wav`; AAADAW resolves `$item` as `item_02` for the second project item and exposes the matching `$itemnumber` value `02`. Blank patterns keep the existing generated output names. Wildcard capitalization, character replacement/removal, prefix truncation, and empty-value separator removal follow the native help and have regression coverage; caret/selection insertion, `[N]` render-order counters, directory creation, lane filters, region/marker/item/take-marker named values, remaining tokens, preset persistence, and more source/range combinations remain open; see [filename wildcard verification](render-filename-patterns.md). The simple fixture confirms the tested track signal and Master sum, but not pre/post-fader settings, automation, folders/sends, or FX routing. Those gaps keep `RENDER-SOURCE-001` and `PROJECT-REGIONS-001` `in_progress`.
+The Render window now has an optional filename-pattern field and a grouped `Wildcards…` picker for 44 implemented tokens: `$project`, `$title`, `$author`, `$projectnotes`, `$projectnotes(name)`, `$bpm`, `$tempo`, `$timesignature`, `$timesignum`, `$timesigdenom`, `$track`, `$tracknumber`, `$tracknameornumber`, `$region`, `$regionnumber`, `$regionnumber[N]`, `$marker`, `$markernumber`, `$markernumber[N]`, `$item`, `$itemnumber`, the 18 Position/Length tokens, and `$format`, `$samplerate`, `$sampleratek`, `$bitdepth`, and `$channels`. The existing Project Notes title, author, and text fields drive the metadata variables; `$projectnotes(name)` resolves matching `name=value` lines, as documented in the native help. Numbered region and marker forms parse N as the initial output number, increment subsequent object ordinals, and retain the supplied digit width; App regression coverage checks the second region and marker. A direct native probe selected `All project markers` with `$markernumber[005]` and rendered `marker-005.wav`, `marker-006.wav`, and `marker-007.wav`, documented in the [native numbered-marker fixture](fixtures/render-wildcards-markernumber-all-markers.tsv). Native help page 3 explicitly documents the `$regionnumber[N]` sequence. A native selected-item Render probe confirms `$title-$author-$projectnotes` resolves to `Wildcard Session-Render Author-Mix notes.wav`; `$tracknumber-$tracknameornumber-$regionnumber-$tempo-$timesignature-$timesignum-$timesigdenom` resolves to `01-Render fixture-02-120-4-4-4-4.wav`, and the marker probe confirms `$markernumber` resolves to `01.wav`. REAPER's changelog specifies that an unnamed track resolves `$tracknameornumber` to `Track NN`; a fresh native dialog shows an empty track name resolving to `Track 01.wav`, which AAADAW now matches. For a selected item from 2.125 to 3.359 seconds, native Render previews verify clock values `0-02.125`, beat values `2.1.25-2.3.72-0.2.47`, timecode `00.00.02.03-00.00.03.10`, seconds and 30 fps counts `2.125-3.359-1.234-63-100-37`, and length components `0-0-1-234`. The native context, metadata, marker, unnamed-track, Position/Length, Output Format, and Channels screenshots are in the filename wildcard fixture set. The native wildcard menu and help catalog is recorded in [the catalog verification](render-wildcard-catalog.md). For the tested `$region-$track` pattern, AAADAW emits the native names `Intro-Master.wav`, `Intro-Drums.wav`, `Intro-Guitar.wav`, and `Verse-Bass.wav`; its offline renderer still matches all four native PCM payloads byte-for-byte. The native `$region-$item` case resolves to `bounds-ui-Region 2-item_02.wav`; AAADAW resolves `$item` as `item_02` for the second project item and exposes the matching `$itemnumber` value `02`. Blank patterns keep the existing generated output names. Wildcard capitalization, character replacement/removal, prefix truncation, numbered region/marker values, and empty-value separator removal follow captured help/menu rules and have regression coverage; caret/selection insertion, other `[N]` render-order counters, directory creation, lane filters, region/marker/item/take-marker named values, remaining tokens, preset persistence, and more source/range combinations remain open; see [filename wildcard verification](render-filename-patterns.md). The simple fixture confirms the tested track signal and Master sum, but not pre/post-fader settings, automation, folders/sends, or FX routing. Those gaps keep `RENDER-SOURCE-001` and `PROJECT-REGIONS-001` `in_progress`.
 
 ### Selected media items
 

diff --git a/docs/verification/reaper-parity/render-wildcard-catalog.md b/docs/verification/reaper-parity/render-wildcard-catalog.md
@@ -33,6 +33,6 @@ The captured Output Format previews confirm `wav-44100-44.1-24-2` for 44.1 kHz /
 
 ## AAADAW status
 
-AAADAW implements 42 tokens: `$project`, `$title`, `$author`, `$projectnotes`, `$projectnotes(name)`, `$bpm`, `$tempo`, `$timesignature`, `$timesignum`, `$timesigdenom`, `$track`, `$tracknumber`, `$tracknameornumber`, `$region`, `$regionnumber`, `$marker`, `$markernumber`, `$item`, `$itemnumber`, the 18 Position/Length entries above, and `$format`, `$samplerate`, `$sampleratek`, `$bitdepth`, and `$channels`. `$bpm` and `$tracknameornumber` are accepted compatibility forms outside the captured native menu labels. The native menu groups items hierarchically; AAADAW currently presents its flat grouped picker in a scrollable panel. Its lower rows and a real `$sampleratek` insertion are shown in the [scrolled AAADAW picker](fixtures/render-filename-pattern-wildcards-scrolled-aaadaw.png), [sample-rate insertion](fixtures/render-filename-pattern-wildcard-sampleratek-aaadaw.png), [named project-note insertion](fixtures/render-filename-pattern-wildcard-insert-aaadaw.png), and [item-number insertion](fixtures/render-filename-pattern-wildcard-itemnumber-aaadaw.png).
+AAADAW implements 44 tokens: `$project`, `$title`, `$author`, `$projectnotes`, `$projectnotes(name)`, `$bpm`, `$tempo`, `$timesignature`, `$timesignum`, `$timesigdenom`, `$track`, `$tracknumber`, `$tracknameornumber`, `$region`, `$regionnumber`, `$regionnumber[N]`, `$marker`, `$markernumber`, `$markernumber[N]`, `$item`, `$itemnumber`, the 18 Position/Length entries above, and `$format`, `$samplerate`, `$sampleratek`, `$bitdepth`, and `$channels`. `$bpm` and `$tracknameornumber` are accepted compatibility forms outside the captured native menu labels. The native menu groups items hierarchically; AAADAW currently presents its flat grouped picker in a scrollable panel. Its lower rows and a real `$sampleratek` insertion are shown in the [scrolled AAADAW picker](fixtures/render-filename-pattern-wildcards-scrolled-aaadaw.png), [sample-rate insertion](fixtures/render-filename-pattern-wildcard-sampleratek-aaadaw.png), [named project-note insertion](fixtures/render-filename-pattern-wildcard-insert-aaadaw.png), [item-number insertion](fixtures/render-filename-pattern-wildcard-itemnumber-aaadaw.png), and [numbered-region insertion](fixtures/render-filename-pattern-wildcard-region-number-aaadaw.png).
 
-AAADAW now applies the help-documented capitalization modes, `<X>` character removal, `<abcdeX>` character replacement, `[<N]` prefix truncation, and removal of one adjacent space, hyphen, underscore, or dot when a resolved value is empty. Regression cases cover the help examples. Project-note named lookup `$projectnotes(name)` is now implemented from the captured help example. The rest of the native catalog and syntax remain open: region/marker/item/take-marker named notes and expressions, directory and folder hierarchy, parent and FX names, marker identity and ordering, item notes and take markers, recording counters, date/time and unique IDs, user/computer values, `[N]` render-order counters, `/` directory creation, `{lane}`, presets, `Master $Track` substitution, non-WAV formats, and per-channel `$chid` need implementation or additional source-specific REAPER comparisons. `RENDER-WILDCARDS-001` remains `in_progress`.
+AAADAW now applies the help-documented capitalization modes, `<X>` character removal, `<abcdeX>` character replacement, `[<N]` prefix truncation, and removal of one adjacent space, hyphen, underscore, or dot when a resolved value is empty. For `$regionnumber[N]` and `$markernumber[N]`, `N` is parsed as a starting number and subsequent region/marker ordinals increment it while preserving the requested digit width; AAADAW regression coverage checks both expressions and the resulting filenames. Native help page 3 explicitly defines the region-number sequence, and the captured Regions/Markers menu lists both numbered forms. A fresh native Render probe set `$markernumber[005]`, selected `All project markers`, and rendered `marker-005.wav`, `marker-006.wav`, and `marker-007.wav`; the dialog and finished-render screenshots plus output hashes are recorded in [the numbered-marker fixture](fixtures/render-wildcards-markernumber-all-markers.tsv). Project-note named lookup `$projectnotes(name)` is implemented from the captured help example. The rest of the native catalog and syntax remain open: region/marker/item/take-marker named notes and expressions, directory and folder hierarchy, parent and FX names, marker identity and ordering, item notes and take markers, recording counters, date/time and unique IDs, user/computer values, other `[N]` render-order counters, `/` directory creation, `{lane}`, presets, `Master $Track` substitution, non-WAV formats, and per-channel `$chid` need implementation or additional source-specific REAPER comparisons. `RENDER-WILDCARDS-001` remains `in_progress`.
